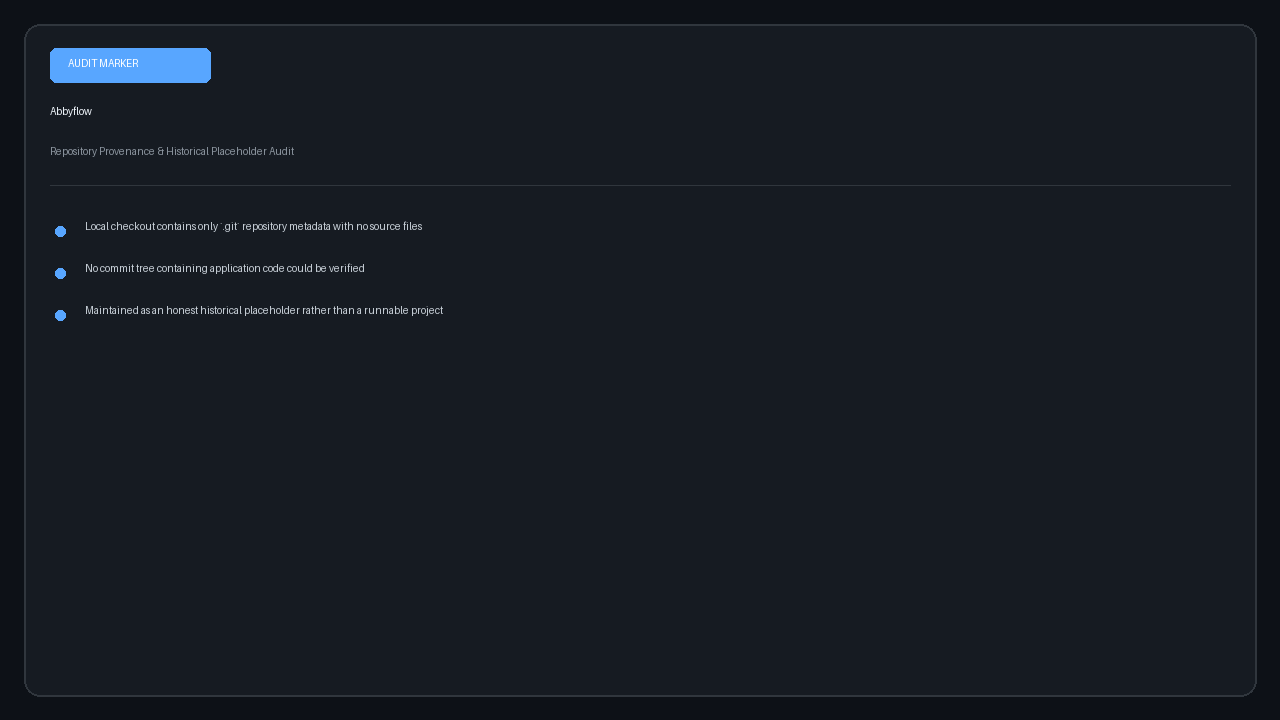
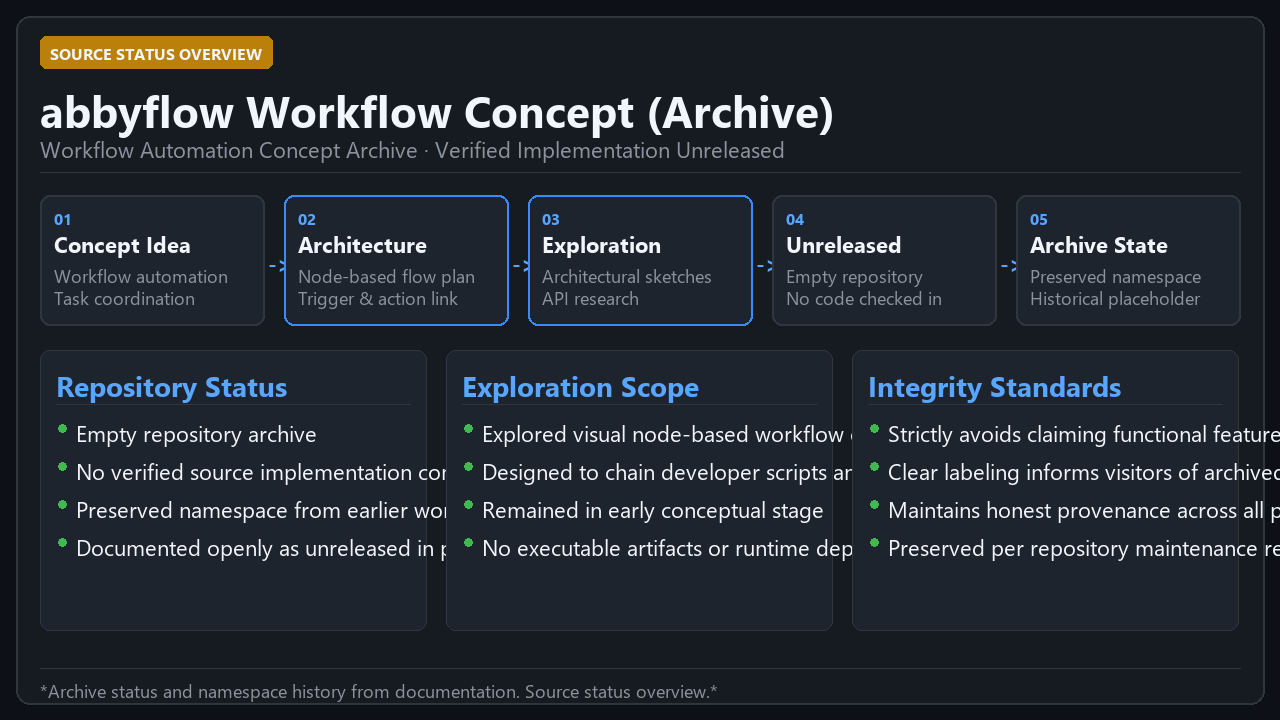
docs: record transparent archive status and project scope

diff --git a/README.md b/README.md
@@ -1,20 +1,6 @@
-# Abbyflow · Historical Placeholder Audit
+# Abbyflow
 
-> **Repository provenance and historical checkout audit documentation.**
+[![Abbyflow](media/overview.png)](media/walkthrough.mp4)
+*Click preview above to view source status overview.*
 
-[![Abbyflow Status Overview](media/overview.png)](media/walkthrough.mp4)
-
-*Click the preview card above to watch the audit walkthrough.*
-
----
-
-## Repository Status
-
-A full audit of the local checkout for `abbyflow` confirmed that it contains only `.git` repository metadata with no tracked application source files or commit history.
-
-To maintain 100% transparency across all 38 repositories, this project is cataloged candidly as an unrecovered historical placeholder.
-
-## Media
-
-- **Status Card:** `media/overview.png`
-- **Audit Walkthrough:** `media/walkthrough.mp4`
+**The trail ends before the code begins.** This checkout has no application source or assets, and no features or setup steps can be verified. It is a project placeholder, not a runnable release.
